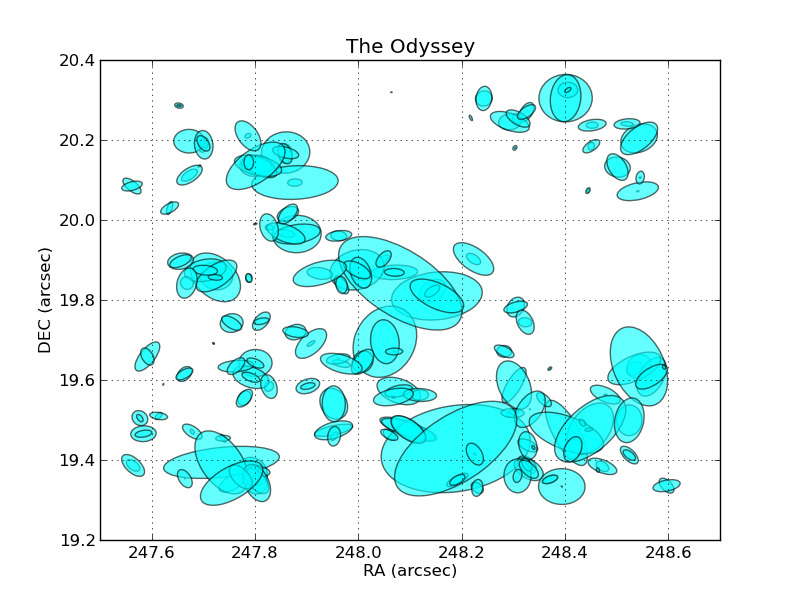
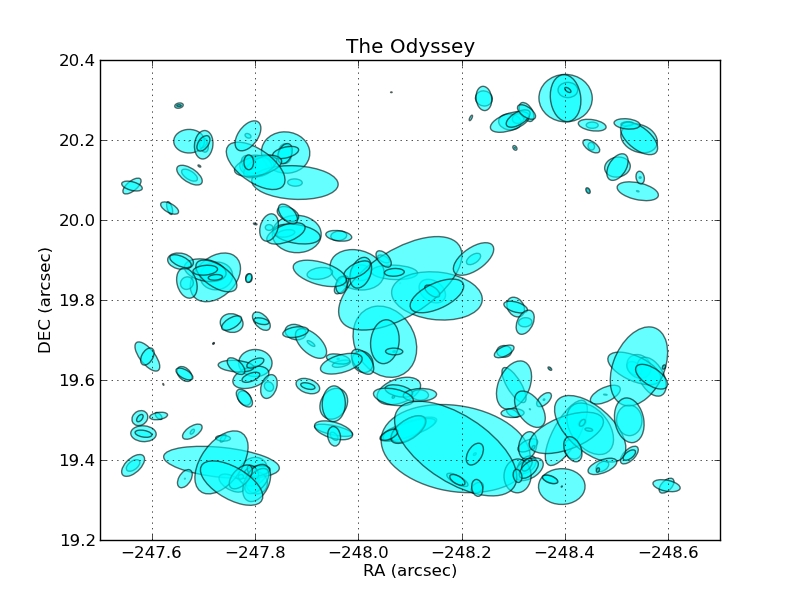
adding The Odyssey, now need to work on colours

diff --git a/examples/theodyssey.py b/examples/theodyssey.py
@@ -1,7 +1,7 @@
 # -*- coding: utf-8 -*-
 # Example plots using galtoons
 
-# 
+# Plotting the catalogue of galaxies around "The Odyssey"
 
 # ======================================================================
 
@@ -49,8 +49,8 @@ disk_size = PI * disk_Rd_arcsec * disk_Rd_arcsec
 
 # Create bulges, disks and halo dictionaries. Initialise them in Galtoons
 
-mybulges = {'name':'bulge', 'x':ra, 'y':dec, 'size':bulge_size, 'phi':bulge_phi, 'q':bulge_q}
-mydisks = {'name':'disk', 'x':ra, 'y':dec, 'size':disk_size, 'phi':disk_phi}
+mybulges = {'name':'bulge', 'x':-ra, 'y':dec, 'size':bulge_size, 'phi':bulge_phi, 'q':bulge_q}
+mydisks = {'name':'disk', 'x':-ra, 'y':dec, 'size':disk_size, 'phi':disk_phi}
 
 # Instantiate the Galtoons object, mytoons
 mytoons = toons.Galtoons(bulges=mybulges,disks=mydisks,halos=None)
@@ -70,7 +70,7 @@ mytoons.plot_toons()
 
 # ----------------------------------------------------------------------
 # Make the plot nice:
-ax.set_xlim(247.5,248.7)
+ax.set_xlim(-247.5,-248.7)
 ax.set_ylim(19.2,20.4)
 plt.xlabel('RA (arcsec)')
 plt.ylabel('DEC (arcsec)')
